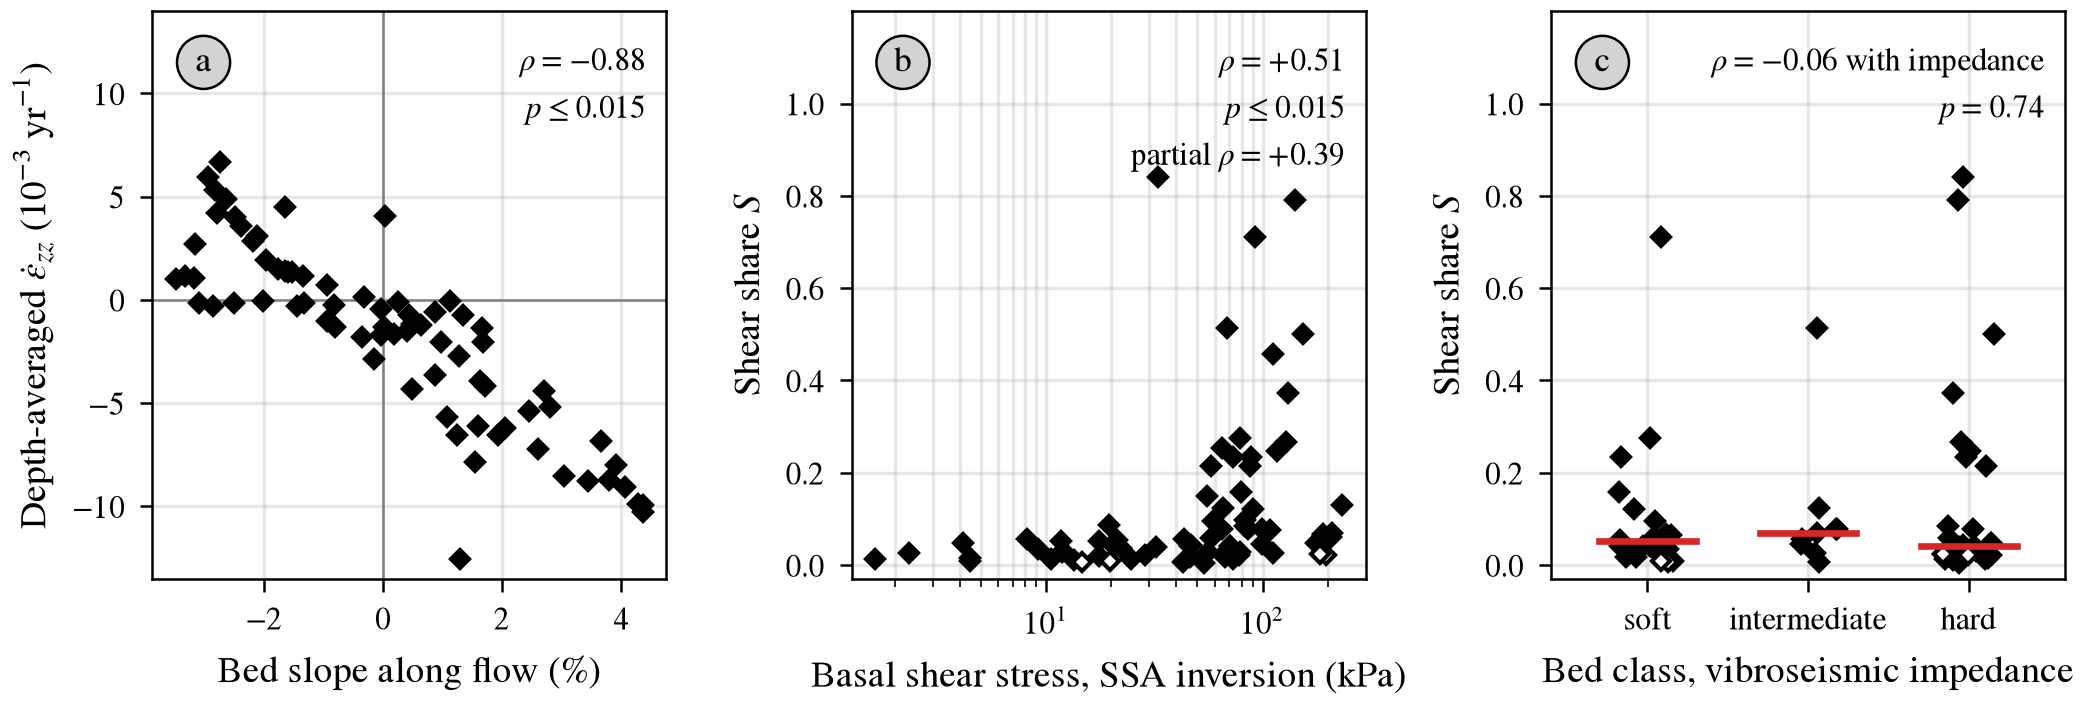
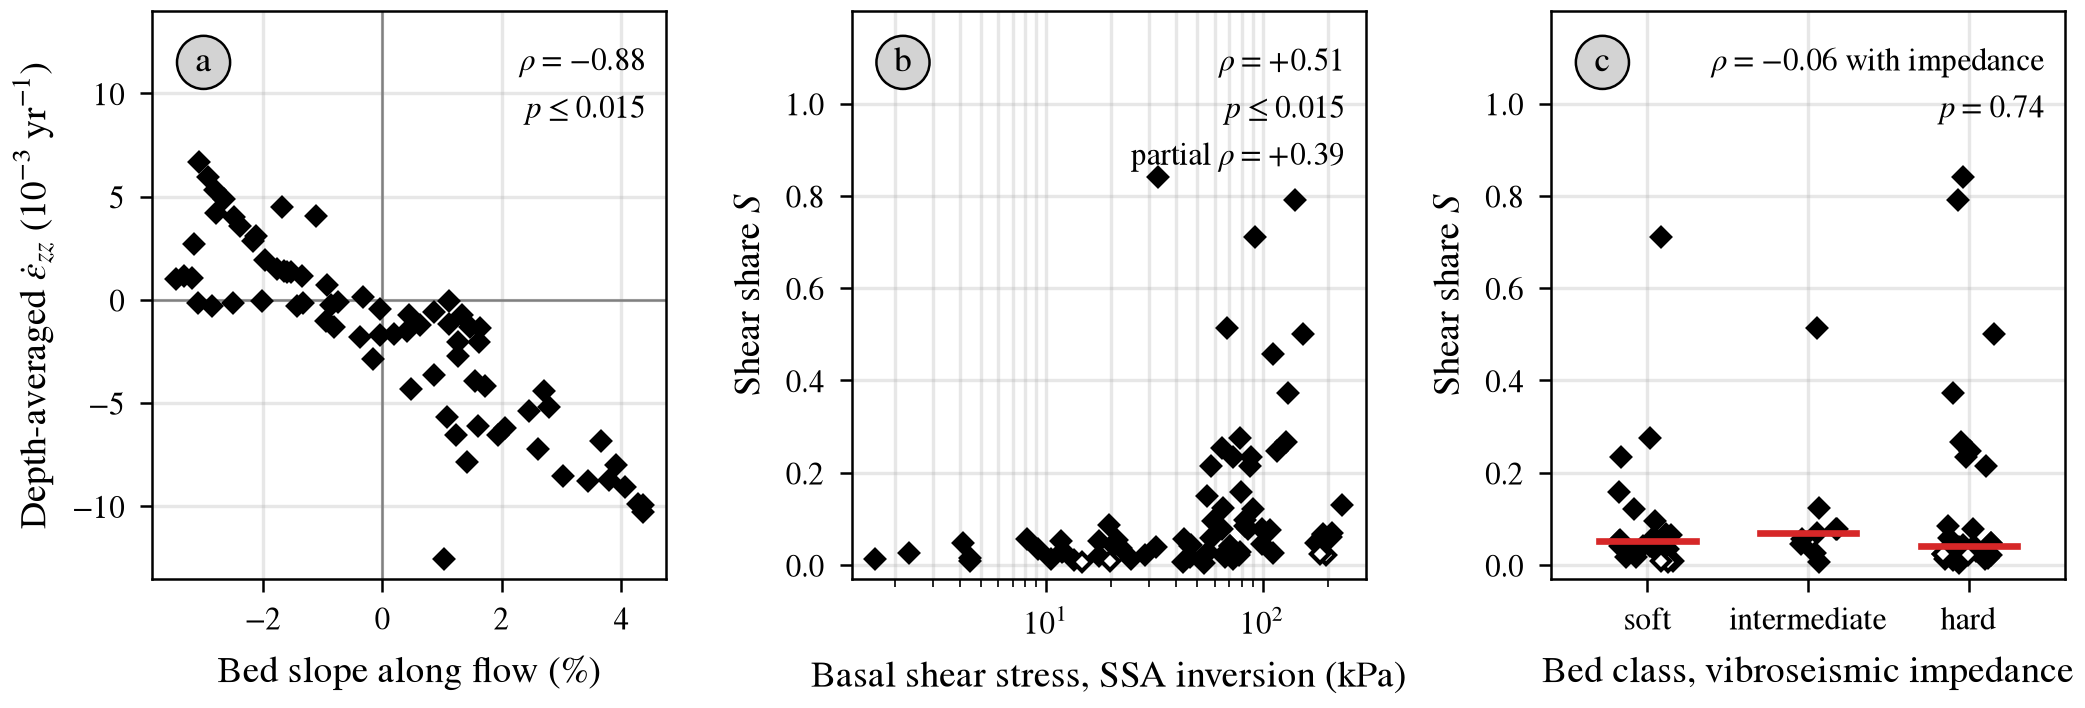
Sample Fig. S10 bed per station along the survey direction
Require a one-to-one cell match between the SSA extract and dissipation
files, profile the bed for each station along the survey line's principal
axis so no sampling path leaves the line, and note the Firedrake inputs
in run_pipeline.sh and the README. Re-render figS10_bed_link.

diff --git a/scripts/figures/figS10_bed_link.py b/scripts/figures/figS10_bed_link.py
@@ -4,7 +4,8 @@ For each fitted station on the survey line (the 73 transect stations and LTG)
 this tests three relations the paper's discussion leans on:
 
   (a)  depth-averaged vertical strain rate against the slope of the bed along
-       flow (BedMachine v4.1 along the station path, smoothed over 2 km);
+       flow (BedMachine v4.1 on each station's own profile along the survey
+       direction, smoothed over 2 km, so no sampling path leaves the line);
   (b)  shear share S against the basal shear stress of the velocity-only (SSA)
        inversion, which never saw the ApRES data, so the relation is not built
        into the inversion that assimilates them;
@@ -58,7 +59,8 @@ import paths  # noqa: E402
 import seismic  # noqa: E402
 import style  # noqa: E402
 
-PATH_STEP_KM = 0.1          # sampling of the bed along the station path
+PATH_STEP_KM = 0.1          # sampling of the bed along each station's profile
+PROFILE_HALF_KM = 10.0      # half-length of each station's bed profile
 BED_SMOOTH_KM = 2.0         # Gaussian sigma for the bed before differencing, about H
 IMPEDANCE_RADIUS_KM = 0.5   # vibroseismic groups averaged around each station
 MIN_SHIFT = 5               # smallest circular shift, in stations
@@ -85,24 +87,42 @@ def bed_impedance(df: pd.DataFrame) -> np.ndarray:
     return out
 
 
+def survey_direction(df: pd.DataFrame) -> np.ndarray:
+    """Unit vector of the survey line in polar stereographic x/y, towards increasing distance.
+
+    The principal axis of the transect stations' positions (LTG, off the line, is left out)."""
+    tr = df[df["site_type"] != "continuous"]
+    xy = np.column_stack([tr["x_ps_m"].values, tr["y_ps_m"].values])
+    xy = xy - xy.mean(axis=0)
+    axis = np.linalg.svd(xy, full_matrices=False)[2][0]
+    if np.corrcoef(xy @ axis, tr["distance_km"].values)[0, 1] < 0:
+        axis = -axis
+    return axis
+
+
 def bed_along_line(df: pd.DataFrame):
     """BedMachine bed elevation (m) and its slope along flow (dimensionless) at each station.
 
-    The bed is sampled every PATH_STEP_KM along the path through the stations and
-    smoothed with a Gaussian of BED_SMOOTH_KM before differencing.  Distance grows
-    inland and the ice flows towards smaller distances, so the slope along flow is
-    minus the slope with distance: positive where the bed rises in the direction of
-    flow (a stoss slope)."""
+    Each station, LTG included at its own position, gets its own bed profile along the
+    survey direction, from -PROFILE_HALF_KM to +PROFILE_HALF_KM every PATH_STEP_KM and
+    centred on the station, so no sampling path leaves the line.  The profile is
+    smoothed with a Gaussian of BED_SMOOTH_KM before differencing and read at its
+    centre.  Distance grows inland and the ice flows towards smaller distances, so the
+    slope along flow is minus the slope with distance: positive where the bed rises in
+    the direction of flow (a stoss slope)."""
     import xarray as xr
 
-    s, x, y = (df[k].values for k in ("distance_km", "x_ps_m", "y_ps_m"))
-    sd = np.arange(s.min(), s.max() + 1e-9, PATH_STEP_KM)
+    axis = survey_direction(df)
+    offset = np.arange(-PROFILE_HALF_KM, PROFILE_HALF_KM + 1e-9, PATH_STEP_KM) * 1000.0
+    centre = len(offset) // 2
+    x = df["x_ps_m"].values[:, None] + offset[None, :] * axis[0]
+    y = df["y_ps_m"].values[:, None] + offset[None, :] * axis[1]
     ds = xr.open_dataset(paths.require(paths.BEDMACHINE, "BedMachine Antarctica"))
-    bed = ds["bed"].interp(x=xr.DataArray(np.interp(sd, s, x)),
-                           y=xr.DataArray(np.interp(sd, s, y))).values.astype(float)
-    bed = gaussian_filter1d(bed, BED_SMOOTH_KM / PATH_STEP_KM)
-    slope = -np.gradient(bed, sd * 1000.0)
-    return np.interp(s, sd, bed), np.interp(s, sd, slope)
+    bed = ds["bed"].interp(x=xr.DataArray(x, dims=("station", "offset")),
+                           y=xr.DataArray(y, dims=("station", "offset"))).values.astype(float)
+    bed = gaussian_filter1d(bed, BED_SMOOTH_KM / PATH_STEP_KM, axis=1, mode="nearest")
+    slope = -np.gradient(bed, offset, axis=1)
+    return bed[:, centre], slope[:, centre]
 
 
 def ssa_basal_shear_stress(df: pd.DataFrame) -> np.ndarray:
@@ -116,8 +136,9 @@ def ssa_basal_shear_stress(df: pd.DataFrame) -> np.ndarray:
     centre = ex["xy"][cells].mean(axis=1)
     tree = cKDTree(centre)
     dist, k = tree.query(dz["xy"])
-    if dist.max() > 1.0:
-        raise ValueError("dissipation cells do not match the extract's mesh")
+    if len(dz["xy"]) != len(cells) or np.unique(k).size != len(cells) or dist.max() >= 1.0:
+        raise ValueError(f"dissipation cells in {paths.MODEL_DISSIPATION} do not match "
+                         f"the mesh cells in {paths.MODEL_EXTRACT} one to one")
     power = np.empty(len(cells))
     power[k] = dz["bed"] / dz["area"]                                  # W m^-2
     speed = ex["speed_mod"][cells].mean(axis=1) / SECONDS_PER_YEAR      # m s^-1

diff --git a/README.md b/README.md
@@ -98,7 +98,7 @@ numbers are not the paper's, so figure labels avoid numbers and the captions sup
 | Fig. 7 | `scripts/plot_dissipation.py` | `figures/paper/F_dissipation` |
 | Figs. S1-S8 | `scripts/paper_figures.py` (S1-S8) | `figures/paper/S*` |
 | Fig. S9 | `scripts/figures/fig03_strain_regression.py` | `figures/strain_pipeline/fig03_strain_regression` |
-| Fig. S10 | `scripts/figures/figS10_bed_link.py` | `figures/strain_pipeline/figS10_bed_link`, `results/vertical_velocity/bed_link.json` |
+| Fig. S10 | `scripts/figures/figS10_bed_link.py` | `figures/strain_pipeline/figS10_bed_link`, `results/vertical_velocity/bed_link.json`; needs `results/paper/extract_ssa.npz` (`paper_extract.py`) and `results/paper/dissipation_ssa.npz` (`dissipation_partition.py`), Firedrake scripts outside `run_pipeline.sh` |
 
 ```
 scripts/run_pipeline.sh            all stages below, in order (env: PY_ANALYSIS, PY_FIGURES, JOBS)
